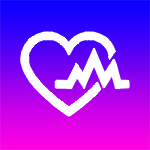
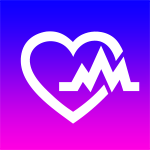
Icones novos

Changed region(s): [[0.1333, 0.1867, 0.9333, 0.8267], [0.1867, 0.2133, 0.2933, 0.2667]]

diff --git a/pages/kits.vue b/pages/kits.vue
@@ -3,7 +3,7 @@
     <h1 class="text-center text-h4 font-weight-bold"> Kits</h1>
     <h3 class="text-center text-h9 mt-9">O Kit contém Álcool em gel para higienização das mãos, caixa de remédios com os
 medicamentos mais utilizados e recomendados para ocasiões do dia a dia, vitamina D3 para auxílio e manutenção da imuidade e duas máscaras compostas de material antiviral
-para proteção diária contra o COVID-19. Todos esses itens serão transportados e entregues a sua casa dentro de uma caixa de metal personalizada 
+para proteção diária contra o COVID-19. Todos esses itens serão transportados e entregues a sua casa dentro de uma caixa de metal personalizada
 Apollo Saúde, impedindo assim a produção excessiva de lixo. Os Kits Saúde poderão ser solicitados através do aplicativo Apollo Health e do portal
 Apollo Health. Para saber se o os Kits Saúde da Apollo Health serão entregues a sua casa, entre em contato com o seu plano de saúde..</h3>
 
@@ -15,7 +15,7 @@ Apollo Health. Para saber se o os Kits Saúde da Apollo Health serão entregues 
           rounded="lg"
           width="21%">
 
-        
+
           <v-card-text>
             <div class="text-h6 text--primary font-weight-bold">Álcool em gel</div>
             <img :src="alcool" style="height:220; width:100%" />
@@ -70,29 +70,29 @@ Apollo Health. Para saber se o os Kits Saúde da Apollo Health serão entregues 
           width="21%"
         >
           <v-card-text>
-            <div class="text-h6 text--primary font-weight-bold">Máscaras</div> 
-            <img :src="mascaraPL" style="height:220; width:100%" />          
+            <div class="text-h6 text--primary font-weight-bold">Máscaras</div>
+            <img :src="mascaraPL" style="height:220; width:100%" />
           </v-card-text>
         </v-card>
-       </v-row>       
+       </v-row>
   </div>
 </template>
 <script>
-import alcool from "static/kits/alcool-em-gel.png"
-import caixaRemedio from "static/kits/caixa-de-remedio.png"
-import mailBox from "static/kits/caixa-de-envio.png"
-import metalBox from "static/kits/caixa-de-metal.png"
-import mascaraPL from "static/kits/mascara-preta-lado.png"
+import alcool from "static/kits/alcool-em-gel.jpeg"
+import caixaRemedio from "static/kits/caixa-de-remedio.jpeg"
+import mailBox from "static/kits/caixa-de-envio.jpeg"
+import metalBox from "static/kits/caixa-de-metal.jpeg"
+import mascaraPL from "static/kits/mascara-preta-lado.jpeg"
 
 
 export default {
-    data: function () {
+    data () {
         return {
-            alcool: alcool,
-            caixaRemedio: caixaRemedio,
-            mailBox: mailBox,
-            metalBox: metalBox,
-            mascaraPL: mascaraPL
+            alcool,
+            caixaRemedio,
+            mailBox,
+            metalBox,
+            mascaraPL
         }
     }
 }

diff --git a/pages/index.vue b/pages/index.vue
@@ -42,7 +42,7 @@
         <v-row justify='center' align='center'>
           <v-col>
             <h1 class='text-h4 font-weight-bold'>Para todo lugar no seu bolso.</h1>
-            <img src='/images/apollo-app.png' :width='appSize' alt='App' loading='lazy/'>
+            <img src='/static/images/apollohealth-app.png' :width='appSize' alt='App' loading='lazy/'>
             <v-row justify='center' align='center'>
               <img src='/app-store-badge.svg' width='150' class='ma-3' alt='App Store' />
               <img src='/google-play-badge.png' width='190' class='ma-3' alt='Google Play' />
